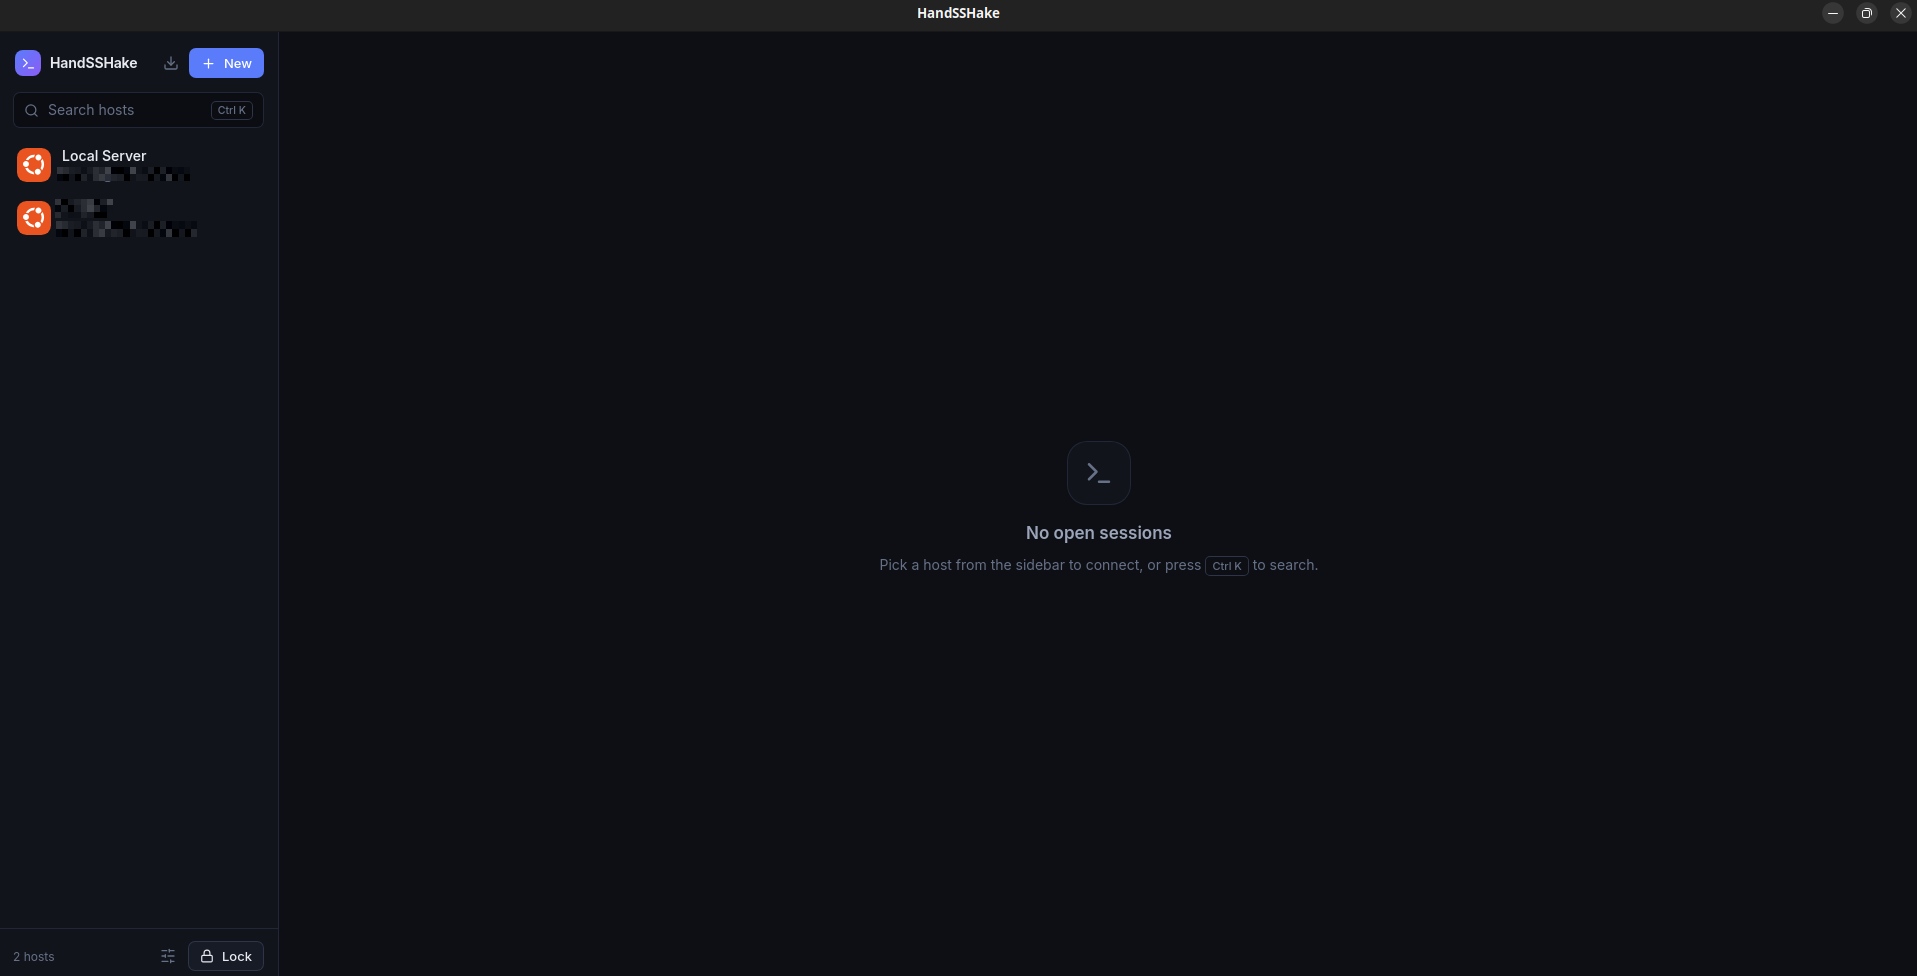
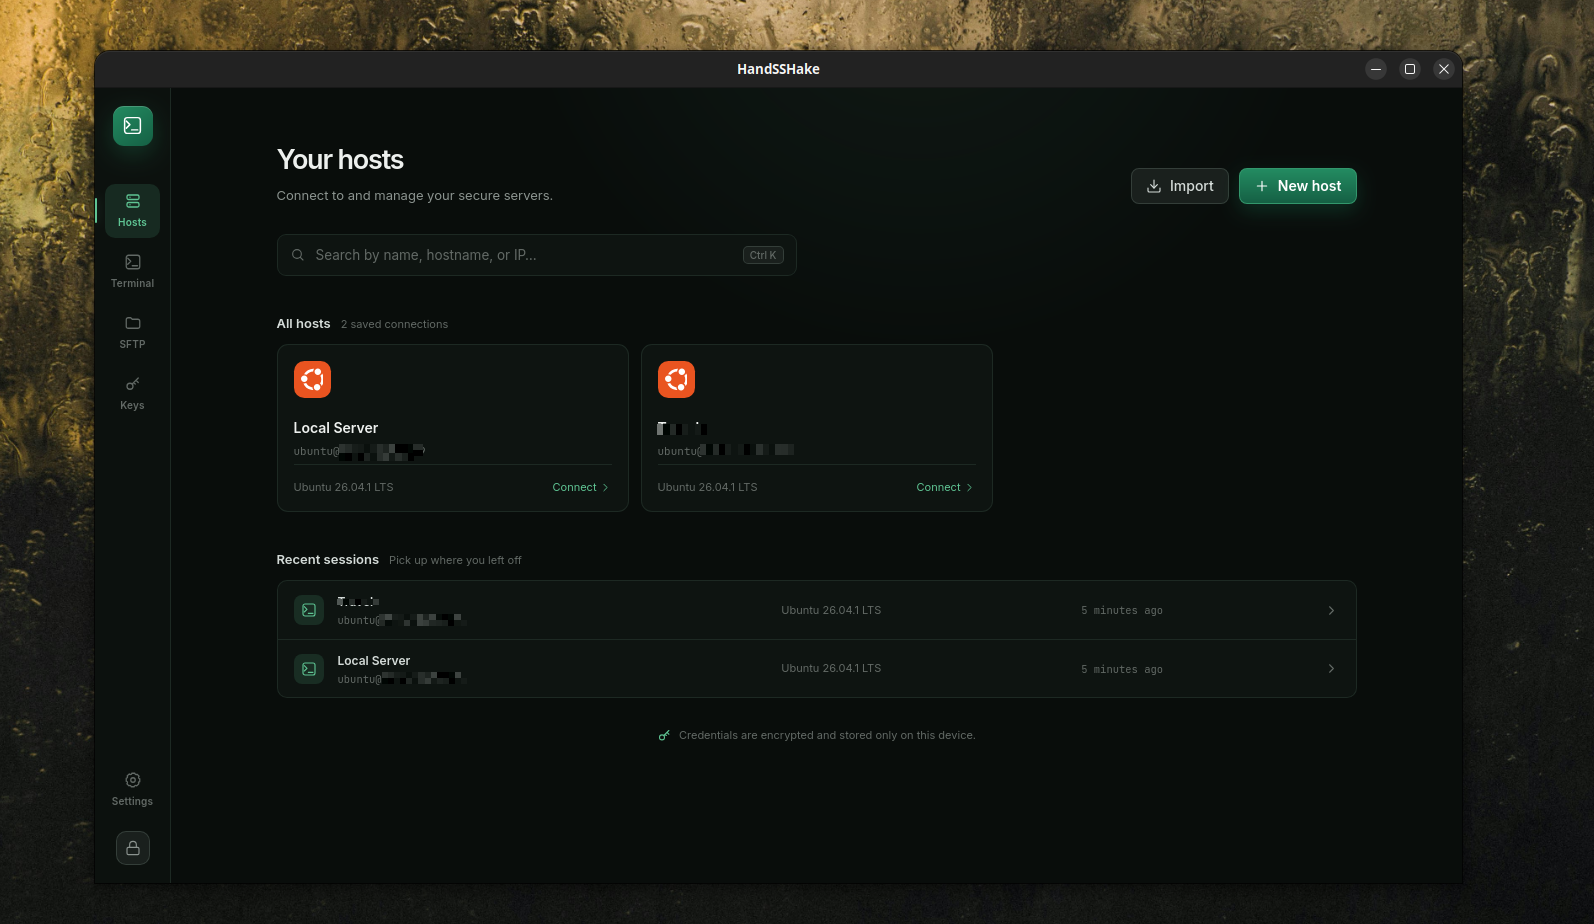
updated doc

diff --git a/README.md b/README.md
@@ -23,6 +23,11 @@ Your SSH hosts and credentials stay on your machine, protected by an encrypted l
 
 ![HandSSHake SSH terminal](docs/images/ssh-terminal.png)
 
+
+### Settings
+
+![HandSSHake Settings](docs/images/settings.png)
+
 ## Platforms
 
 HandSSHake currently supports:
